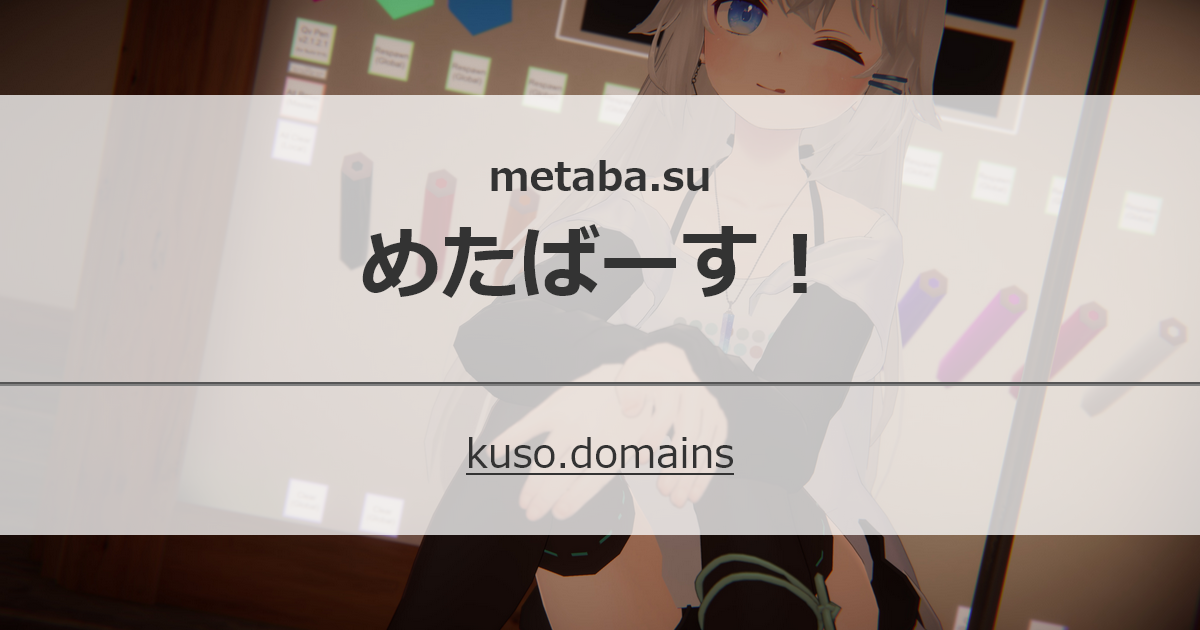
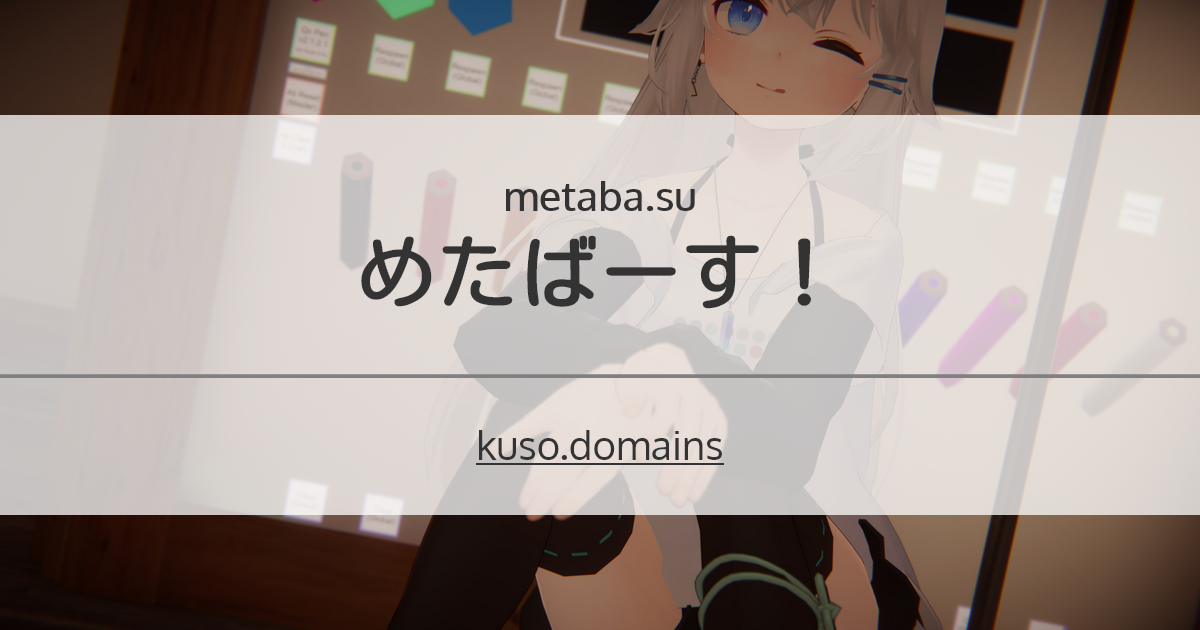
Improve browser compatibility

diff --git a/index.html b/index.html
@@ -13,6 +13,8 @@
 		<meta name=twitter:site content=@yanorei32>
 		<meta name=twitter:creator content=@yanorei32>
 		<link rel=icon type=image/png href=img/favicon.png>
+		<link href="https://fonts.googleapis.com/css?family=Kosugi+Maru" rel=stylesheet>
+		<link href="https://fonts.googleapis.com/css?family=Oxygen" rel=stylesheet>
 		<style>
 			html, body {
 				width: 100%;
@@ -22,6 +24,7 @@
 				border: 0;
 			}
 			body {
+				font-family: 'Oxygen', 'Kosugi Maru';
 				font-size: 125%;
 				background-image: url('img/metaba.su.0.jpg');
 				background-size: cover;
@@ -41,7 +44,7 @@
 				margin: auto;
 				width: min(800px, 100%);
 				background-color: #ffffffc0;
-				height: 11em;
+				height: 10em;
 				color: #333333;
 			}
 			a, a:visited, a:hover, a:active {
@@ -51,21 +54,23 @@
 				border: none;
 				border-top: 2px solid #808080;
 			}
+			rt {
+				line-height: 10px;
+				margin-bottom: 10px;
+			}
+			div.domain {
+				font-size: 50%;
+			}
 		</style>
-		<!--
-		<script>
-			addEventListener('pageshow', () => {
-				document.body.style.backgroundImage =
-					`url('img/metaba.su.${Math.floor(Math.random() * 1)}.jpg')`;
-			});
-		</script>
-		-->
 	</head>
 	<body>
 		<div class=outer>
 			<div class=inner>
 				<center>
-					<h1><ruby>めたばーす！<rt>metaba.su</rt></ruby></h1>
+					<h1>
+						<div class=domain>metaba.su</div>
+						めたばーす！
+					</h1>
 					<hr>
 					<p><a href=https://kuso.domains/>kuso.domains</a></p>
 				</center>
